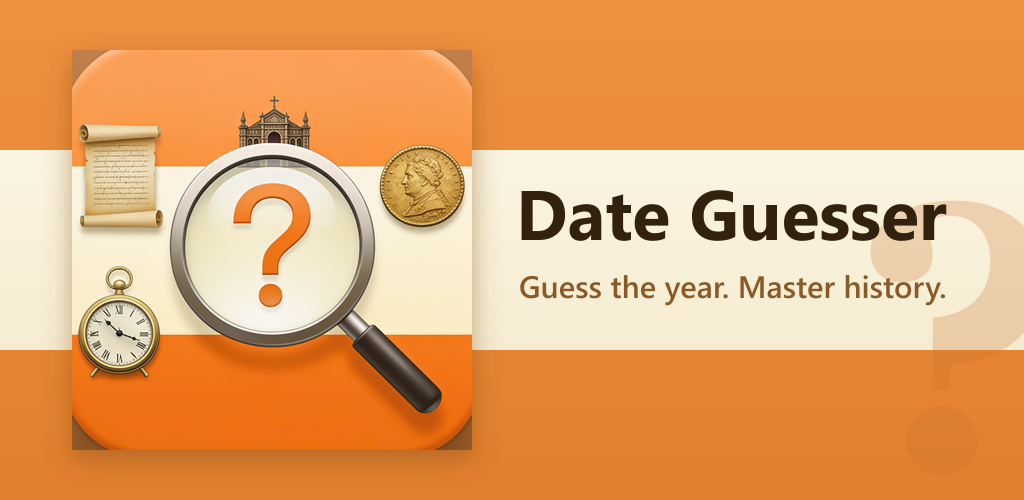
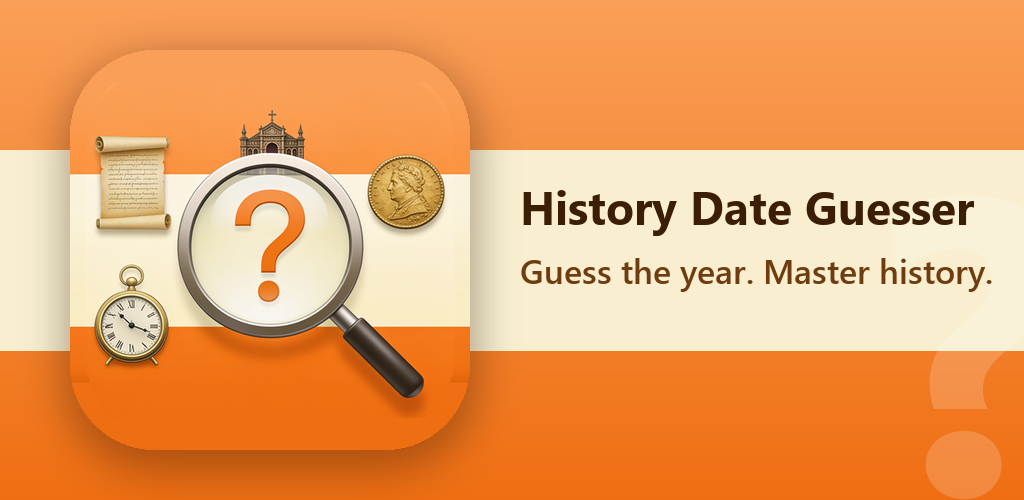
chore: Play listing assets, screenshot/art scripts, flat eslint config

diff --git a/eslint.config.js b/eslint.config.js
@@ -1,0 +1,10 @@
+// https://docs.expo.dev/guides/using-eslint/
+const { defineConfig } = require('eslint/config');
+const expoConfig = require("eslint-config-expo/flat");
+
+module.exports = defineConfig([
+  expoConfig,
+  {
+    ignores: ["dist/*"],
+  }
+]);

diff --git a/scripts/compose_store_screenshots.py b/scripts/compose_store_screenshots.py
@@ -1,0 +1,94 @@
+"""Compose Google Play phone screenshots (1080x1920, 24-bit PNG) from raw
+1080x2340 device captures: crop system bars, wrap in a phone bezel, add a
+caption. Usage: python compose_store.py <shots_dir> <out_dir>"""
+import sys
+from pathlib import Path
+
+from PIL import Image, ImageDraw, ImageFilter, ImageFont
+
+SHOTS, OUT = Path(sys.argv[1]), Path(sys.argv[2])
+OUT.mkdir(parents=True, exist_ok=True)
+
+W, H = 1080, 1920
+STATUS_BAR, NAV_BAR = 94, 156  # px to crop from the raw 1080x2340 capture
+SCREEN_W = 780
+BEZEL = 22
+RADIUS = 88
+
+FONT_BOLD = "C:/Windows/Fonts/segoeuib.ttf"
+FONT_REG = "C:/Windows/Fonts/segoeui.ttf"
+
+LIGHT = dict(bg=(250, 245, 238), head=(29, 23, 18), sub=(94, 82, 67), accent=(232, 134, 43), bezel=(29, 23, 18))
+DARK = dict(bg=(10, 9, 8), head=(247, 242, 234), sub=(183, 172, 157), accent=(232, 134, 43), bezel=(44, 37, 28))
+
+SHOTS_SPEC = [
+    ("01-quiz", "quiz", "When did it happen?", "Slide the timeline to place 150\nmoments in history.", LIGHT),
+    ("02-reveal", "reveal", "Nail the exact year", "Up to 1,000 points a question —\nthe closer you are, the more you score.", LIGHT),
+    ("03-summary", "summary", "Earn three stars", "Minerva the owl cheers you through\nevery stage you clear.", LIGHT),
+    ("04-home", "home", "Five ways to play", "Daily, Endless, Survival, Campaign\nand a fresh Topic of the Day.", LIGHT),
+    ("05-museum", "museum", "Build your museum", "Guess close to the real year to add\nan artefact to your collection.", LIGHT),
+    ("06-campaign", "campaign", "Work through history", "Five worlds, thirty stages,\nthree stars each.", LIGHT),
+    ("07-dark", "home_dark", "Easy on the eyes", "A warm copper look in light\nand dark themes.", DARK),
+]
+
+
+def rounded_mask(size, radius):
+    m = Image.new("L", size, 0)
+    ImageDraw.Draw(m).rounded_rectangle((0, 0, size[0] - 1, size[1] - 1), radius=radius, fill=255)
+    return m
+
+
+def draw_text_centered(draw, y, text, font, fill, line_gap=10):
+    for line in text.split("\n"):
+        bbox = draw.textbbox((0, 0), line, font=font)
+        w, h = bbox[2] - bbox[0], bbox[3] - bbox[1]
+        draw.text(((W - w) / 2 - bbox[0], y - bbox[1]), line, font=font, fill=fill)
+        y += h + line_gap
+    return y
+
+
+def compose(name, src, heading, sub, theme):
+    raw = Image.open(SHOTS / f"{src}.png").convert("RGB")
+    screen = raw.crop((0, STATUS_BAR, raw.width, raw.height - NAV_BAR))
+    scale = SCREEN_W / screen.width
+    screen = screen.resize((SCREEN_W, round(screen.height * scale)), Image.LANCZOS)
+
+    canvas = Image.new("RGB", (W, H), theme["bg"])
+    draw = ImageDraw.Draw(canvas)
+
+    # Caption
+    head_font = ImageFont.truetype(FONT_BOLD, 68)
+    sub_font = ImageFont.truetype(FONT_REG, 36)
+    y = draw_text_centered(draw, 96, heading, head_font, theme["head"])
+    y = draw_text_centered(draw, y + 14, sub, sub_font, theme["sub"], line_gap=6)
+    # Accent rule under the caption
+    draw.rectangle((W / 2 - 40, y + 26, W / 2 + 40, y + 31), fill=theme["accent"])
+
+    # Phone frame with soft shadow
+    frame_w, frame_h = SCREEN_W + BEZEL * 2, screen.height + BEZEL * 2
+    fx, fy = (W - frame_w) // 2, 330
+    shadow = Image.new("RGBA", (W, H), (0, 0, 0, 0))
+    sd = ImageDraw.Draw(shadow)
+    sd.rounded_rectangle((fx, fy + 18, fx + frame_w, fy + frame_h + 18), radius=RADIUS + BEZEL, fill=(0, 0, 0, 90))
+    shadow = shadow.filter(ImageFilter.GaussianBlur(28))
+    canvas = Image.alpha_composite(canvas.convert("RGBA"), shadow).convert("RGB")
+
+    frame = Image.new("RGB", (frame_w, frame_h), theme["bezel"])
+    canvas.paste(frame, (fx, fy), rounded_mask(frame.size, RADIUS + BEZEL))
+    canvas.paste(screen, (fx + BEZEL, fy + BEZEL), rounded_mask(screen.size, RADIUS))
+
+    # Anything below the canvas is simply cut (store-style bleed).
+    out = OUT / f"{name}.png"
+    canvas.save(out, optimize=True)
+    print(out.name, canvas.size, canvas.mode)
+
+
+for spec in SHOTS_SPEC:
+    compose(*spec)
+
+# Contact sheet for review
+thumbs = [Image.open(OUT / f"{s[0]}.png").resize((270, 480)) for s in SHOTS_SPEC]
+sheet = Image.new("RGB", (280 * len(thumbs), 480), "white")
+for i, t in enumerate(thumbs):
+    sheet.paste(t, (i * 280, 0))
+sheet.save(SHOTS / "store_contact.png")

diff --git a/scripts/rebuild_store_art.py b/scripts/rebuild_store_art.py
@@ -1,0 +1,101 @@
+import os
+from PIL import Image, ImageDraw, ImageFilter, ImageFont
+
+ROOT = r"C:\Users\harry\Documents\code\history-date-guessing-game"
+ORIG = os.path.join(os.environ["TEMP"], "icon_orig.png")
+ICON_OUT = os.path.join(ROOT, "assets/store/game-icon-512.png")
+FG_OUT = os.path.join(ROOT, "assets/store/feature-graphic-1024x500.png")
+SCRATCH = os.path.dirname(__file__)
+
+# ---------------------------------------------------------------- icon ----
+src = Image.open(ORIG).convert("RGB")
+px = src.load()
+W = H = 512
+L, T, R, B, RAD = 12, 12, 499, 499, 106
+CLEAR_X = 140  # artwork-free in the orange bands (cathedral/clock sit elsewhere)
+EDGE_X = 18    # artwork-free in the cream band, but inside the tile's corners only on rows 90..425
+BEVEL = 28     # rows at the tile's top/bottom carrying its bevel highlight — never sampled or kept
+
+
+def band_colour(y):
+    sy = min(max(y, T + BEVEL), B - BEVEL)
+    return px[EDGE_X if 90 <= sy <= 425 else CLEAR_X, sy]
+
+
+bg = Image.new("RGB", (W, H))
+bp = bg.load()
+for y in range(H):
+    c = band_colour(y)
+    for x in range(W):
+        bp[x, y] = c
+
+# Paste the original artwork through a mask that follows the tile's rounded
+# edge (inset past its anti-aliased rim) but drops the bevel rows top/bottom,
+# so none of the tile's own highlight/shadow lines reach the final image.
+inset = 8
+mask = Image.new("L", (W, H), 0)
+ImageDraw.Draw(mask).rounded_rectangle((L + inset, T + inset, R - inset, B - inset), radius=RAD - inset, fill=255)
+ImageDraw.Draw(mask).rectangle((0, 0, W, T + BEVEL), fill=0)
+ImageDraw.Draw(mask).rectangle((0, B - BEVEL, W, H), fill=0)
+icon = bg.copy()
+icon.paste(src, (0, 0), mask)
+icon.save(ICON_OUT)
+icon.save(os.path.join(SCRATCH, "icon_fixed.png"))
+print("icon", icon.size, icon.mode)
+
+# ------------------------------------------------------ feature graphic ----
+FW, FH = 1024, 500
+top_orange = px[CLEAR_X, 40]
+bot_orange = px[CLEAR_X, 470]
+cream = px[EDGE_X, 250]
+
+fg = Image.new("RGB", (FW, FH))
+fp = fg.load()
+for y in range(FH):
+    t = y / (FH - 1)
+    c = tuple(round(top_orange[i] + (bot_orange[i] - top_orange[i]) * t) for i in range(3))
+    for x in range(FW):
+        fp[x, y] = c
+d = ImageDraw.Draw(fg)
+# Cream band across the middle, echoing the icon
+d.rectangle((0, 150, FW, 350), fill=cream)
+
+# Faint "?" watermark on the right
+wm = Image.new("RGBA", (FW, FH), (0, 0, 0, 0))
+wd = ImageDraw.Draw(wm)
+wfont = ImageFont.truetype("C:/Windows/Fonts/segoeuib.ttf", 420)
+wd.text((880, 40), "?", font=wfont, fill=(255, 255, 255, 46))
+fg = Image.alpha_composite(fg.convert("RGBA"), wm)
+
+# Icon tile with rounded corners and a soft shadow
+TILE = 400
+tile = icon.resize((TILE, TILE), Image.LANCZOS)
+tmask = Image.new("L", (TILE, TILE), 0)
+ImageDraw.Draw(tmask).rounded_rectangle((0, 0, TILE - 1, TILE - 1), radius=84, fill=255)
+tx, ty = 70, 50
+shadow = Image.new("RGBA", (FW, FH), (0, 0, 0, 0))
+ImageDraw.Draw(shadow).rounded_rectangle((tx, ty + 14, tx + TILE, ty + TILE + 14), radius=84, fill=(80, 30, 0, 110))
+shadow = shadow.filter(ImageFilter.GaussianBlur(22))
+fg = Image.alpha_composite(fg, shadow)
+fg.paste(tile, (tx, ty), tmask)
+
+# Title + tagline, sized to fit the right column
+d = ImageDraw.Draw(fg)
+col_x, col_w = 520, 470
+size = 72
+while True:
+    tfont = ImageFont.truetype("C:/Windows/Fonts/segoeuib.ttf", size)
+    bb = d.textbbox((0, 0), "History Date Guesser", font=tfont)
+    if bb[2] - bb[0] <= col_w or size <= 30:
+        break
+    size -= 2
+sfont = ImageFont.truetype("C:/Windows/Fonts/seguisb.ttf", 34) if os.path.exists("C:/Windows/Fonts/seguisb.ttf") else ImageFont.truetype("C:/Windows/Fonts/segoeui.ttf", 34)
+title_y = 190
+d.text((col_x - bb[0], title_y - bb[1]), "History Date Guesser", font=tfont, fill=(60, 30, 5))
+sb = d.textbbox((0, 0), "Guess the year. Master history.", font=sfont)
+d.text((col_x - sb[0], title_y + (bb[3] - bb[1]) + 22 - sb[1]), "Guess the year. Master history.", font=sfont, fill=(110, 60, 15))
+
+fg = fg.convert("RGB")
+fg.save(FG_OUT)
+fg.save(os.path.join(SCRATCH, "feature_fixed.png"))
+print("feature", fg.size, fg.mode, "title size", size)

diff --git a/assets/store/play-listing-copy.md b/assets/store/play-listing-copy.md
@@ -1,0 +1,65 @@
+# Google Play listing copy (ASO)
+
+## App name (30 max)
+
+History Date Guesser: Quiz
+
+Alternatives: `History Quiz: Guess the Year` (28) · `Guess the Year: History Quiz` (28)
+
+## Short description (80 max)
+
+History trivia quiz: guess the year of famous events by sliding a timeline.
+
+Alternative: `Slide the timeline, guess the year. History trivia quiz with daily challenges.` (78)
+
+## Full description (4000 max)
+
+Guess the year. Master history.
+
+History Date Guesser is a history trivia quiz where every answer is a date. See a famous moment from the past — a battle, an invention, a discovery, a masterpiece — and slide the timeline to the year you think it happened. The closer your guess, the more points you score. No multiple choice, no lucky guesses: just you, the timeline, and 5,000 years of world history.
+
+Illustrated with beautiful miniature 3D scenes, it's the history quiz game for anyone who loves trivia, timelines and the story of how we got here.
+
+🗓 HOW TO PLAY
+• Read the event, look at the picture, and drag the timeline to your year
+• Pinch to zoom from millennia down to single years, or jump straight to a century
+• Score up to 1,000 points per question — nail the exact year for a perfect
+• Learn the real story behind every date after each guess
+
+🎮 FIVE WAYS TO PLAY
+• Daily Challenge – eight fresh questions, one shot a day, keep your streak alive
+• Topic of the Day – a new themed run every day: Ancient Rome, the World Wars, Great Inventions and more
+• Endless – keep guessing and chase your high score
+• Survival – three lives, how far can you get?
+• Campaign – work through worlds and earn three stars on every stage
+
+📚 150 QUESTIONS ACROSS FIVE CATEGORIES
+• Historic Events – from the Great Pyramid to the fall of the Berlin Wall
+• Battles – Thermopylae, Hastings, Waterloo, D-Day
+• Famous People – when history's icons were born
+• Technology – paper, the printing press, the telephone, the first nuclear reactor
+• Arts & Culture – Homer, the Sistine Chapel, Beethoven, the Beatles
+
+🏛 BUILD YOUR MUSEUM
+Guess close to the real year to add an artefact to your collection. Fill a wing to earn its mastery badge and complete the museum.
+
+🏆 PROGRESS, STREAKS AND LEADERBOARDS
+• Earn XP and coins, level up and unlock achievements
+• Keep a daily streak going and buy streak freezes with your coins
+• Climb the global leaderboard against history buffs everywhere
+• Sign in with Google to keep your progress safe across devices
+
+🦉 MEET MINERVA
+Your owl scholar cheers you on, celebrates your perfect years and picks you up after a miss.
+
+✨ MADE TO FEEL GOOD
+• Clean, warm design with light and dark themes
+• Haptic feedback as you scrub through the centuries
+• Works offline – no account required to play
+
+Perfect for history students, pub quiz regulars, teachers, trivia fans and anyone who has ever argued about when something happened.
+
+PREMIUM
+History Date Guesser is free to play. An optional Premium subscription ($2.99/month, cancel anytime) unlocks unlimited hearts plus the Arts & Culture category, its campaign world and topics.
+
+How well do you really know when things happened? Download History Date Guesser and find out.

diff --git a/assets/store/store-listing.md b/assets/store/store-listing.md
@@ -29,3 +29,10 @@ Guess the year of historic events on a timeline. Score, streak, and climb.
 - Game icon: `game-icon-512.png` (512×512 PNG)
 - Feature graphic: `feature-graphic-1024x500.png` (1024×500 PNG)
 - Category: Trivia
+
+## Phone screenshots (Google Play)
+
+`assets/store/screenshots/phone/01..07-*.png` — 1080x1920, 24-bit PNG, no alpha (Play: 320–3840 px, max side <= 2x min side).
+Raw captures come from the device via `adb exec-out screencap -p` with the Expo dev-menu FAB hidden
+(`showFab=false` in the dev client shared prefs); frames are composed by
+`python scripts/compose_store_screenshots.py <raw-shots-dir> assets/store/screenshots/phone`.
